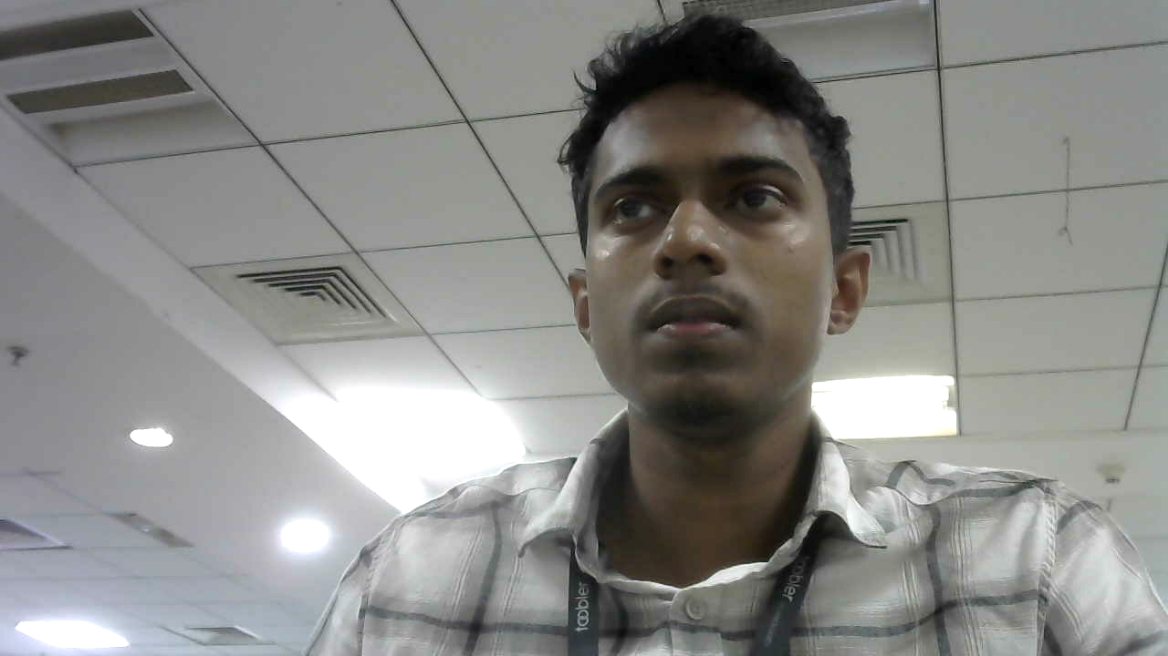
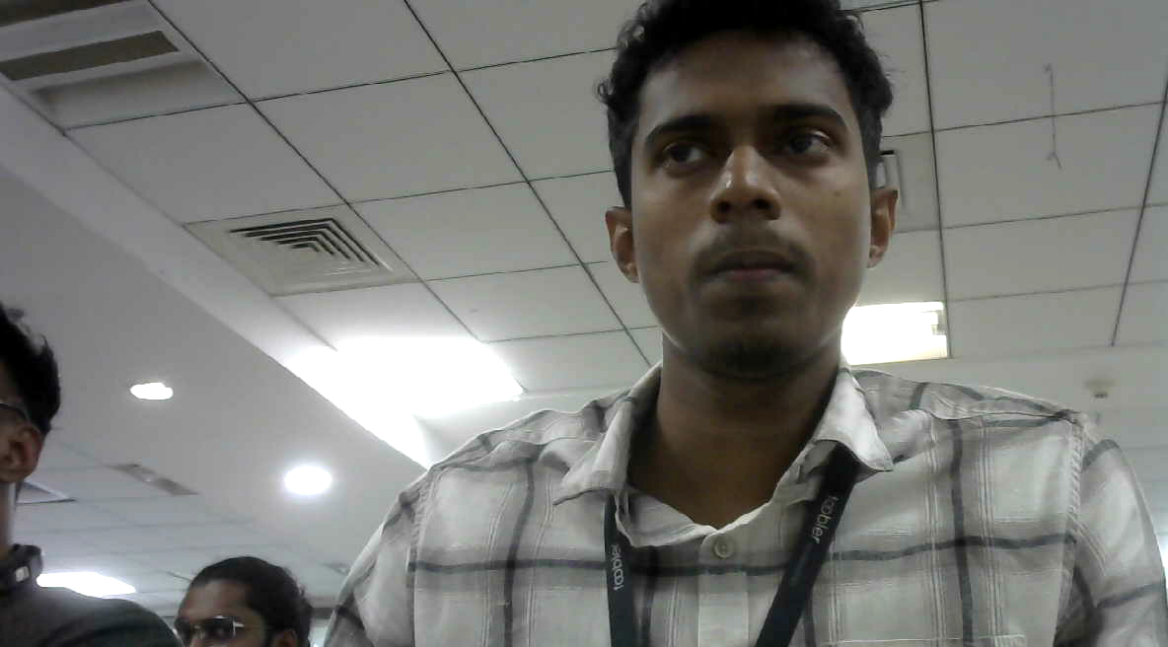
removed the name bar

diff --git a/app.py b/app.py
@@ -52,7 +52,7 @@ if len(st.session_state.known_face_encodings) == 0:
 # -----------------------------
 # REGISTER FUNCTION
 # -----------------------------
-def register_student(name, email, photo):
+def register_student(name, photo):
     photo_path = os.path.join(KNOWN_FACES_DIR, f"{name}.jpg")
 
     try:
@@ -102,12 +102,11 @@ if menu == "Register Member":
         st.subheader("Upload Member Photo")
 
         name = st.text_input("Name", key="upload_name")
-        email = st.text_input("Email", key="upload_email")
         photo = st.file_uploader("Choose an image (JPG, PNG)", type=["jpg", "png"])
 
         if st.button("Register Member", key="register_upload"):
-            if name and email and photo:
-                register_student(name, email, photo)
+            if name and photo:
+                register_student(name, photo)
             else:
                 st.error("Please fill all fields.")
 
@@ -119,13 +118,12 @@ if menu == "Register Member":
 
         if camera_photo is not None:
             name_web = st.text_input("Name (Webcam)", key="webcam_name")
-            email_web = st.text_input("Email (Webcam)", key="webcam_email")
 
             if st.button("Register from Webcam", key="register_webcam"):
-                if name_web and email_web:
-                    register_student(name_web, email_web, camera_photo)
+                if name_web:
+                    register_student(name_web, camera_photo)
                 else:
-                    st.error("Please enter name and email.")
+                    st.error("Please enter name.")
 
     st.markdown("---")
     st.markdown("### 💡 Tips")
